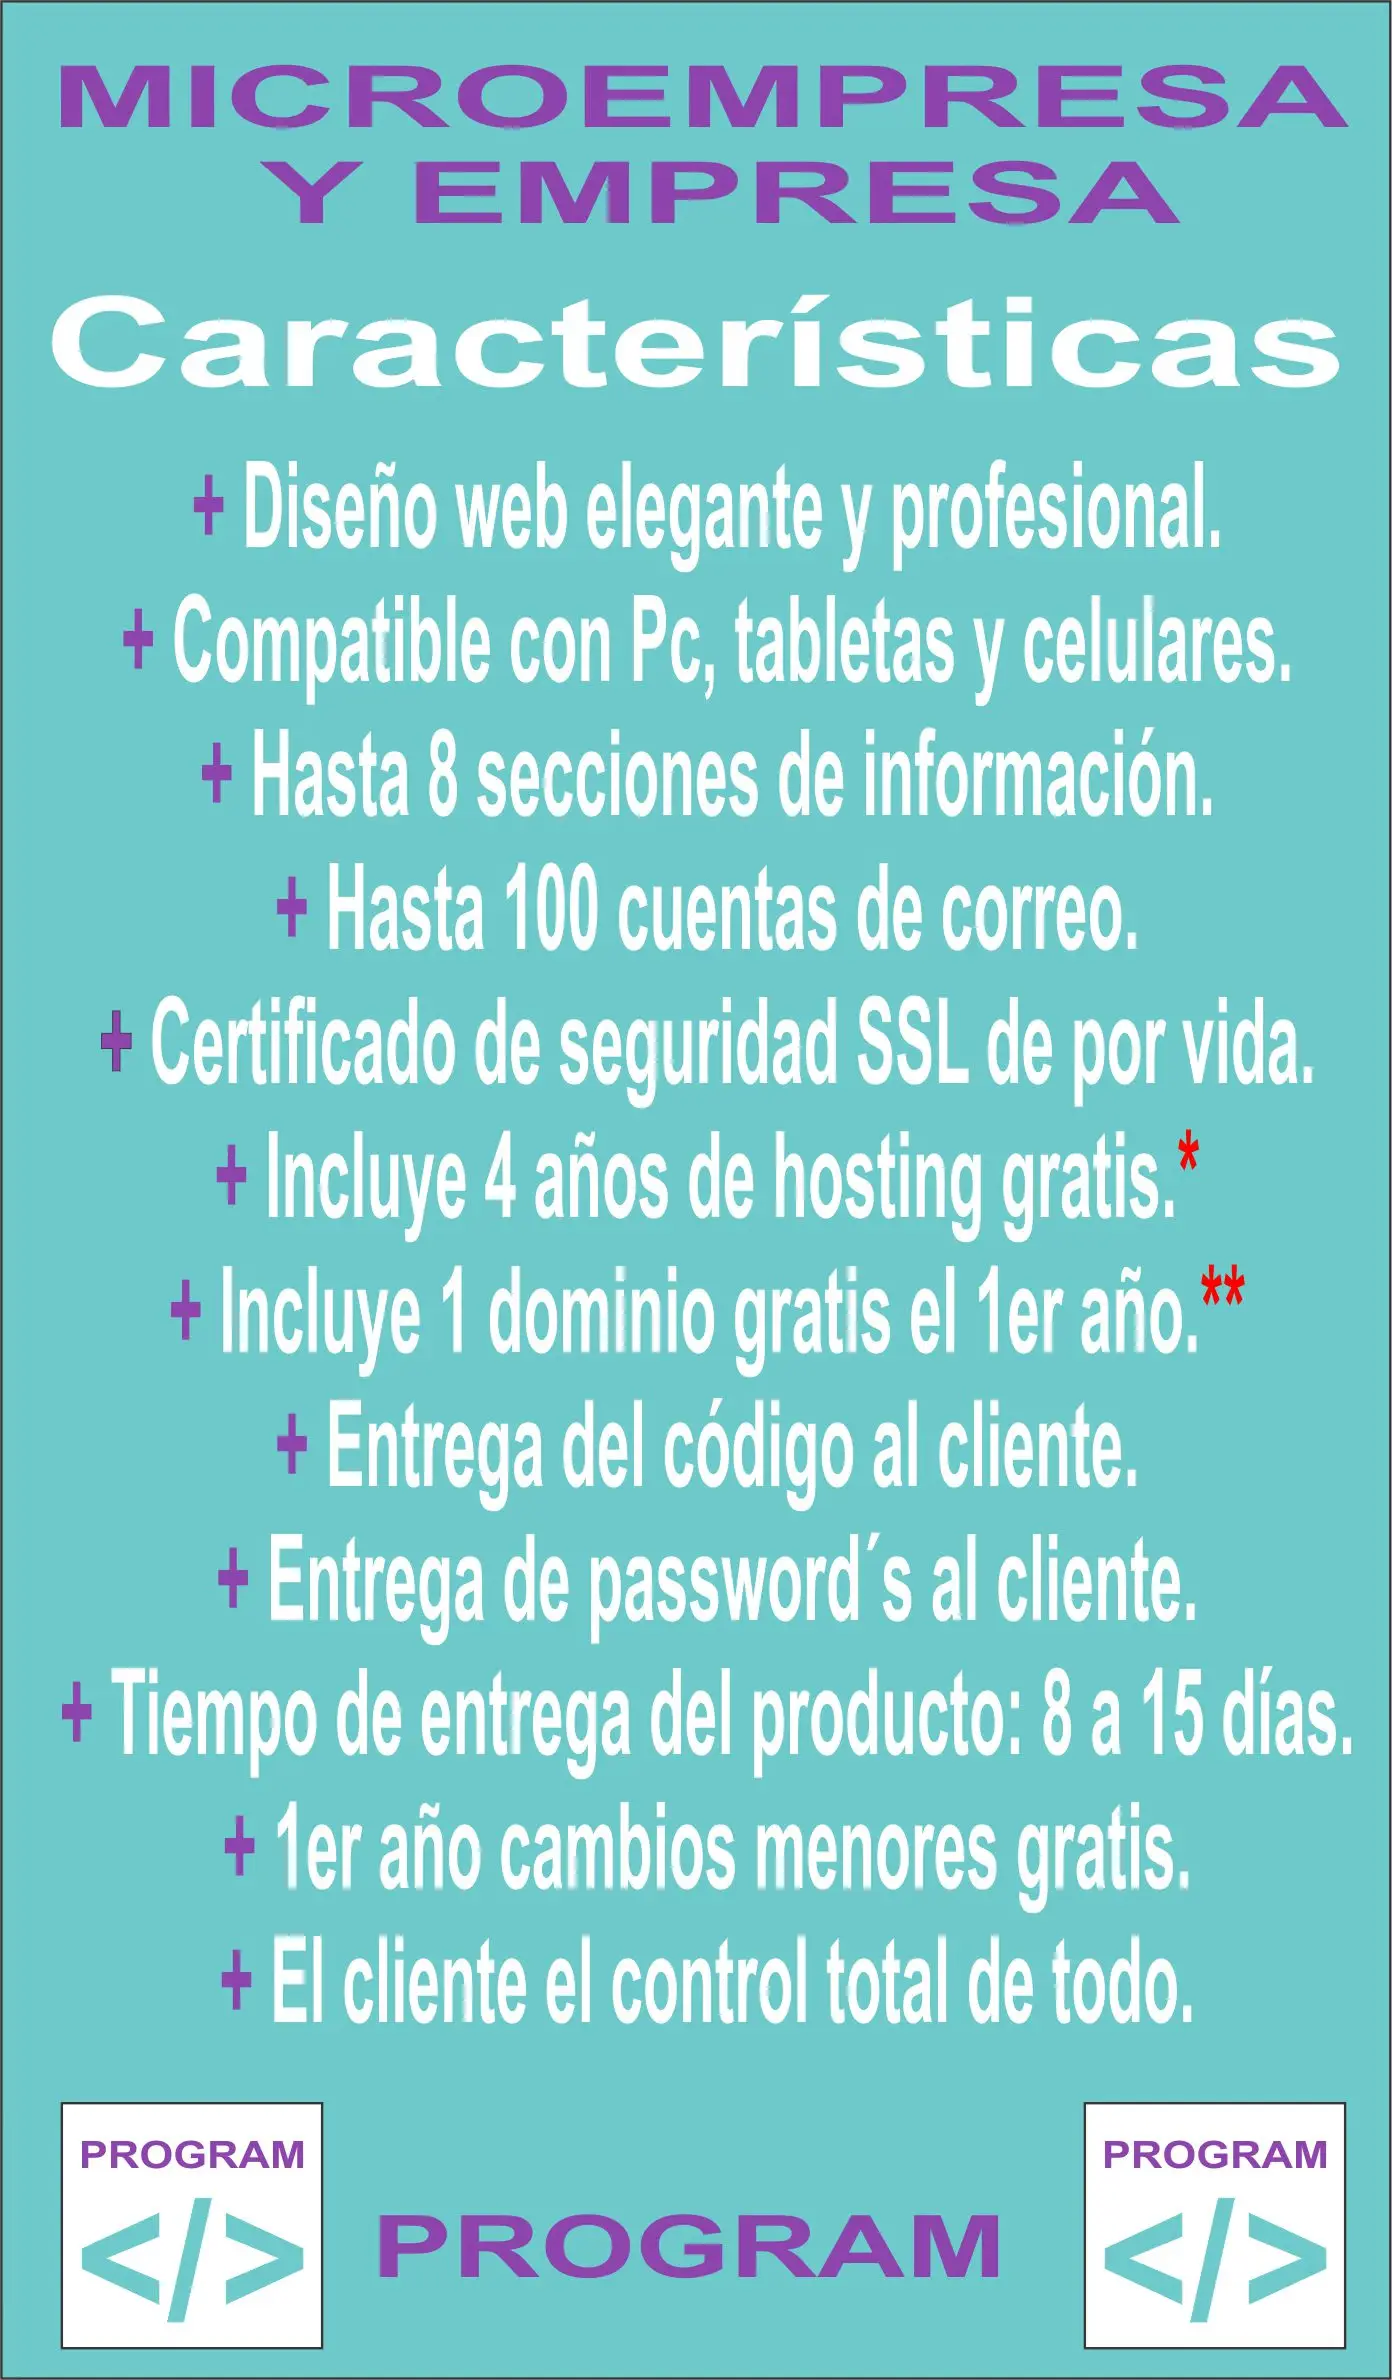
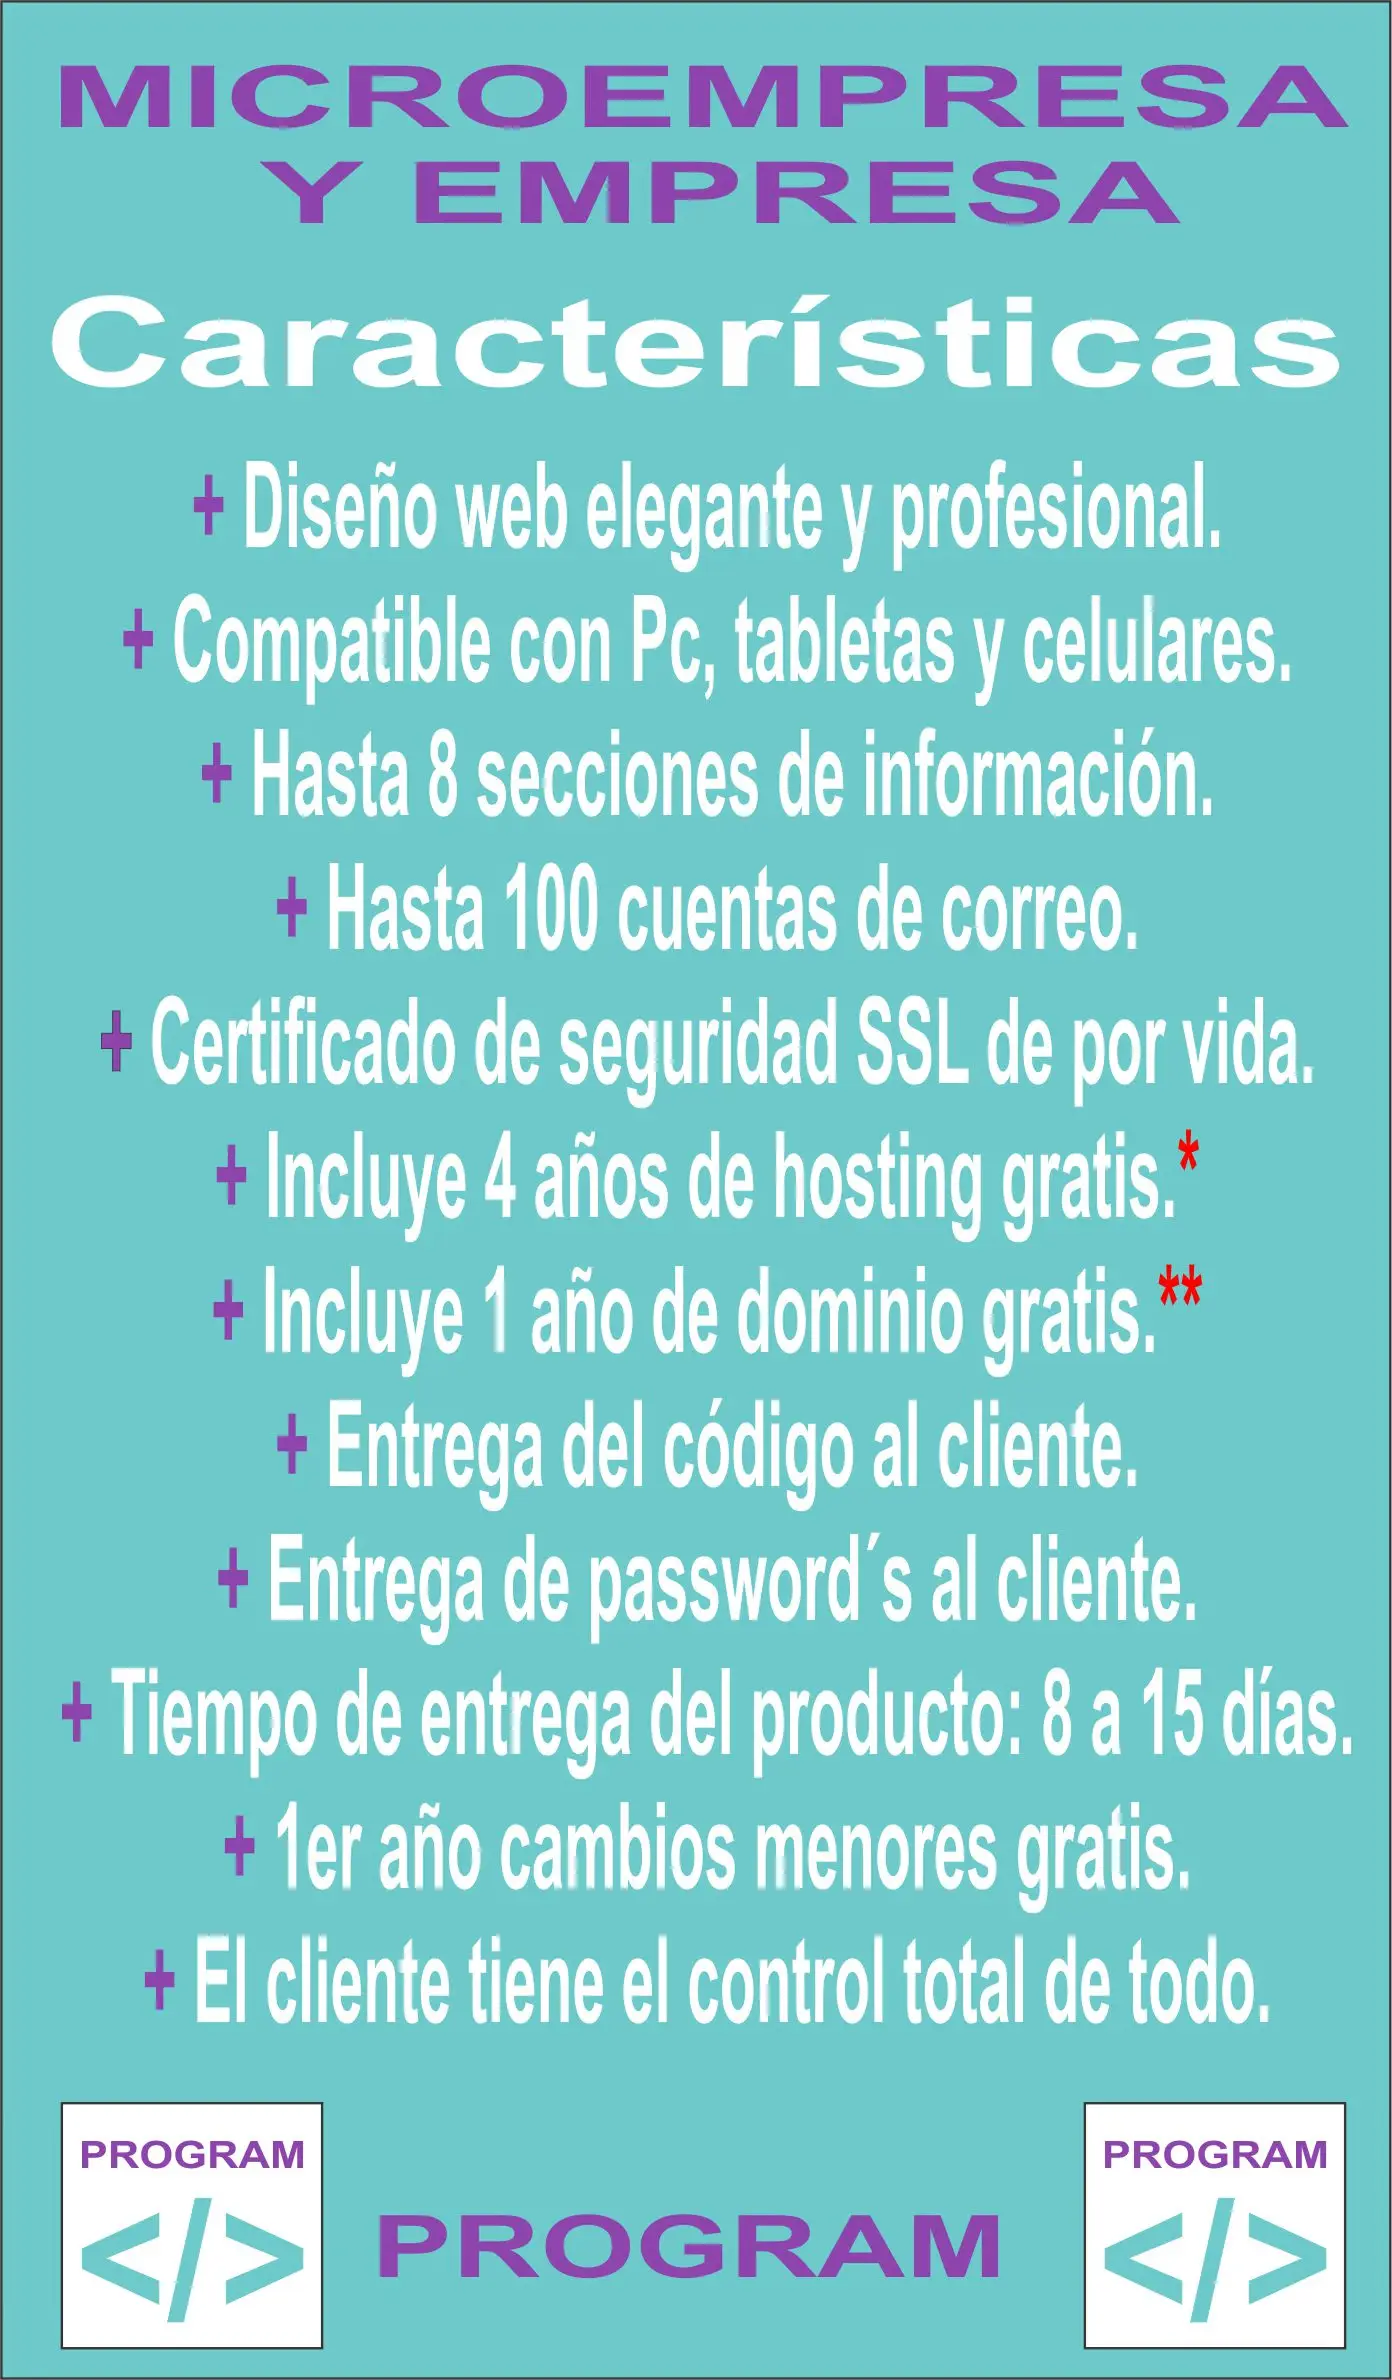
Corrección en program y Taller

Changed region(s): [[0.0927, 0.8084, 0.8958, 0.8706], [0.1236, 0.5286, 0.8958, 0.5908]]

diff --git a/Program.html b/Program.html
@@ -87,10 +87,10 @@
 
                     <strong>Diseñamos tu página web o tienda en línea de forma profesional y totalmente
                         automatizada.</strong><br><br>
-                    <strong>Con "<span style="color: #8E44AD;">PROGRAM</span>" obtienes un sitio real con dominio
-                        propio, sin depender de plataformas que
+                    <strong>Con <span style="color: #8E44AD;">PROGRAM</span> obtienes un sitio real con dominio
+                        propio, sin depender de terceros que
                         limitan tu crecimiento.</strong><br><br>
-                    <strong>Tú eres el dueño: del dominio, del diseño y de tu contenido. Nosotros te ayudamos a
+                    <strong>Tú eres el dueño del dominio, del diseño y de tu contenido. Nosotros te ayudamos a
                         construirlo con estilo, seguridad y total autonomía.</strong>
                 </p>
             </div>
@@ -115,10 +115,12 @@
                                     <strong>50% en la firma del contrato y la otra mitad a la entrega del
                                         producto.</strong><br><br>
                                 </li>
-                                <li><span style="color: red;"><strong>*</strong></span> Terminando el 4° año, el cliente renovará sin
+                                <li><span style="color: red;"><strong>*</strong></span> Terminando el 4° año, el cliente
+                                    renovará sin
                                     intermediarios con el
                                     proveedor del hosting.</li>
-                                <li><span style="color: red;"><strong>**</strong></span> Terminando el 1er año, el cliente renovará sin
+                                <li><span style="color: red;"><strong>**</strong></span> Terminando el 1er año, el
+                                    cliente renovará sin
                                     intermediarios con
                                     el proveedor del dominio. <br><br>
                                 </li>
@@ -128,7 +130,7 @@
                                         Ve un ejemplo de Página web
                                     </a>
                                 </li>
-                                <li> Donde puedes ver varias funcionalidades que ofrecemos, como carrusel de imágenes,
+                                <li> Donde hay varias funcionalidades que ofrecemos, como carrusel de imágenes,
                                     enlaces a otras páginas del mismo dominio, enlaces fuera de este, podemos
                                     agregar también un formulario de contacto y varias cosas más.
                                 </li>
@@ -153,13 +155,16 @@
                                     <strong>50% en la firma del contrato y la otra mitad a la entrega del
                                         producto.</strong><br><br>
                                 </li>
-                                <li><span style="color: red;"><strong>*</strong></span> Terminando el 4° año, el cliente renovará sin
+                                <li><span style="color: red;"><strong>*</strong></span> Terminando el 4° año, el cliente
+                                    renovará sin
                                     intermediarios con el
                                     proveedor del hosting.</li>
-                                <li><span style="color: red;"><strong>**</strong></span> Terminando el 1er año, el cliente renovará sin
+                                <li><span style="color: red;"><strong>**</strong></span> Terminando el 1er año, el
+                                    cliente renovará sin
                                     intermediarios con
                                     el proveedor del dominio.</li>
-                                <li><span style="color: red;"><strong>***</strong></span> Por un bajo costo extra, se pueden
+                                <li><span style="color: red;"><strong>***</strong></span> Por un bajo costo extra, se
+                                    pueden
                                     agregar más productos para vender.<br><br></li>
 
                                 <li>

diff --git a/Taller_Actoral_El_Fenix.html b/Taller_Actoral_El_Fenix.html
@@ -162,11 +162,11 @@
                 <li>Desarrollar tu creatividad y visión.</li>
                 <li>Potencializar tus habilidades innatas.</li>
             </ul>
-            <h2 style="font-size: 1.1rem;"><strong>ADEMÁS</strong></h2>
+            <h2 style="font-size: 1.1rem;"><strong>ADEMÁS...</strong></h2>
             <ul style="color: #228B22; font-weight: bold;">
                 <li>Al final del taller, montaremos una obra.</li>
                 <li style="color: #a30000;">El 100 % de la taquilla será para los actores.</li>
-                <li style="color: black; font-size: 1.15em;">"Recibirás tu constancia de participación".</li>
+                <li style="color: black; font-size: 1.15em;">Recibirás tu constancia de participación.</li>
             </ul>
         </div>
 
@@ -193,7 +193,7 @@
             <!-- Cuándo y horario -->
             <div>
                 <h3>¿Cuándo?</h3>
-                <p>Comienza el <strong>lunes 21 de julio de 2025.</strong></p>
+                <p>Inicia el <strong>lunes 21 de julio de 2025.</strong></p>
                 <p>Finaliza el <strong>sábado 23 de agosto de 2025.</strong></p>
                 <h3>Duración</h3>
                 <p>En este caso son 5 semanas según el <a href="Fotos/Taller/Calendario_2025.jpg" target="_blank"
@@ -208,7 +208,7 @@
                 <p> <a href="https://maps.app.goo.gl/woE35YSt9XkhSDBPA" target="_blank" rel="noopener">"Parque Lázaro
                         Cárdenas" <br><br>Eje Central, Esq. Diagonal 20 de Noviembre.</a></p>
                 <h3>Modalidad</h3>
-                <p>Presencial, en un ambiente seguro y creativo.</p>
+                <p>Presencial, en un ambiente seguro y propicio para la creatividad.</p>
                 <h3>Precio</h3>
                 <p><strong>$50</strong> por clase. (15 clases = $750)<br><br>Al pagar en una sola emisión todo el taller
                     únicamente <strong>$650.</strong></p>
